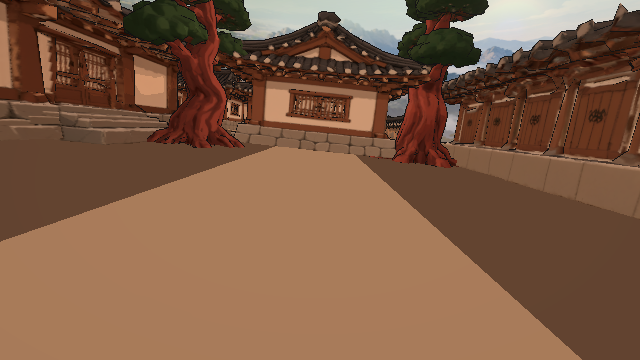
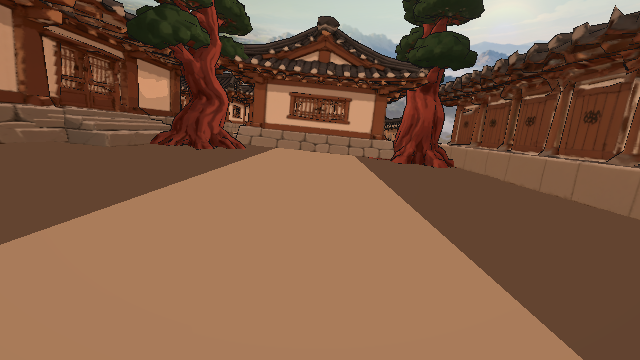
R41: 아래로 피하기가 부딪히며 지나가는 것처럼 보이지 않게 (카메라 높이·장애물 높이)
- 평가: PASS (1회차)
- 테스트: EditMode 209/209, PlayMode 229/230 (skipped 1)
- 평가 보고서: harness/reports/R41-eval-1.md

diff --git a/harness/log.md b/harness/log.md
@@ -964,3 +964,4 @@ VARCO MCP: 3D 생성(Generate3D)은 이미지 1장만 받고 멀티뷰 노드가
 - R37: 평가 PASS (1회차). 다음: R40 평가.
 - R13: 평가 PASS (1회차, 시간 제약으로 Unity 재실행 없이 최신 전체 검증으로 평가).
 - R42: 평가 PASS (1회차, 최신 전체 검증으로 평가). 사람 확인 권장: 지붕 컷 넘어짐이 눈에 띄는지.
+- R41: 평가 PASS (1회차, 최신 전체 검증으로 평가). 남은 것: R40 평가.

diff --git a/harness/reports/R41/clearance.md b/harness/reports/R41/clearance.md
@@ -12,3 +12,4 @@
 | eave_136 | Normal | 1.89 | 0.88 | 0.99 | 80 |
 | eave_232 | Normal | 1.90 | 0.88 | 1.01 | 80 |
 | eave_80 | Normal | 1.45 | 0.76 | 0.68 | 21 |
+| eave_80 | Perfect | 1.45 | 0.86 | 0.57 | 22 |
